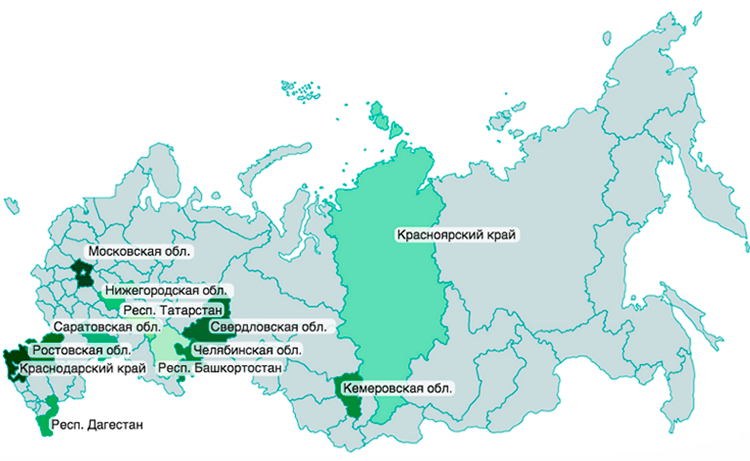
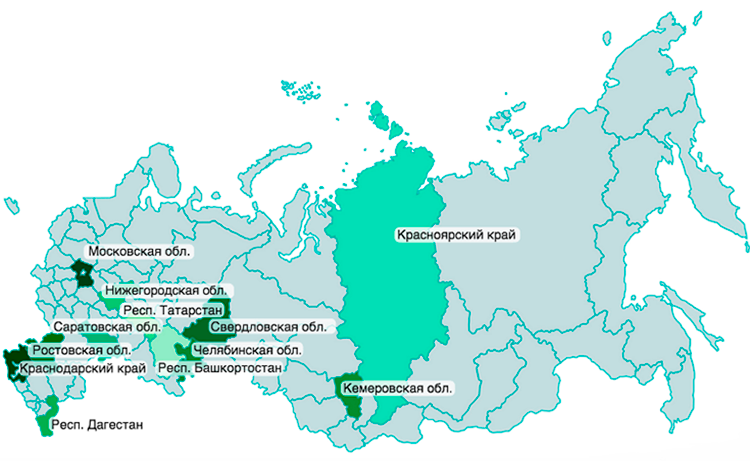
mapmobilerazmer

diff --git a/content/main_mobile.css b/content/main_mobile.css
@@ -377,12 +377,12 @@ float: left;
 
 .wrapper {
     float: left;
-	height: 465px;
+	height: 365px;
     margin-left: 65px;
 	margin-top: 10px;
     margin-bottom: 10px;
 	position: relative;
-	width: 750px;
+	width: 600px;
  overflow: hidden;
 }
 
@@ -403,9 +403,9 @@ float: left;
 	width: inherit;
 }
 
-.slide1 { background: url(img/MAP1.png);}
-.slide2  { background: url(img/MAP2.png);}
-.slide3  { background: url(img/MAP3.png);}
+.slide1 { background: url(img/MAP1_mobile.png);}
+.slide2  { background: url(img/MAP2_mobile.png);}
+.slide3  { background: url(img/MAP3_mobile.png);}
 
 .wrapper .controls {
 	left: 50%;
